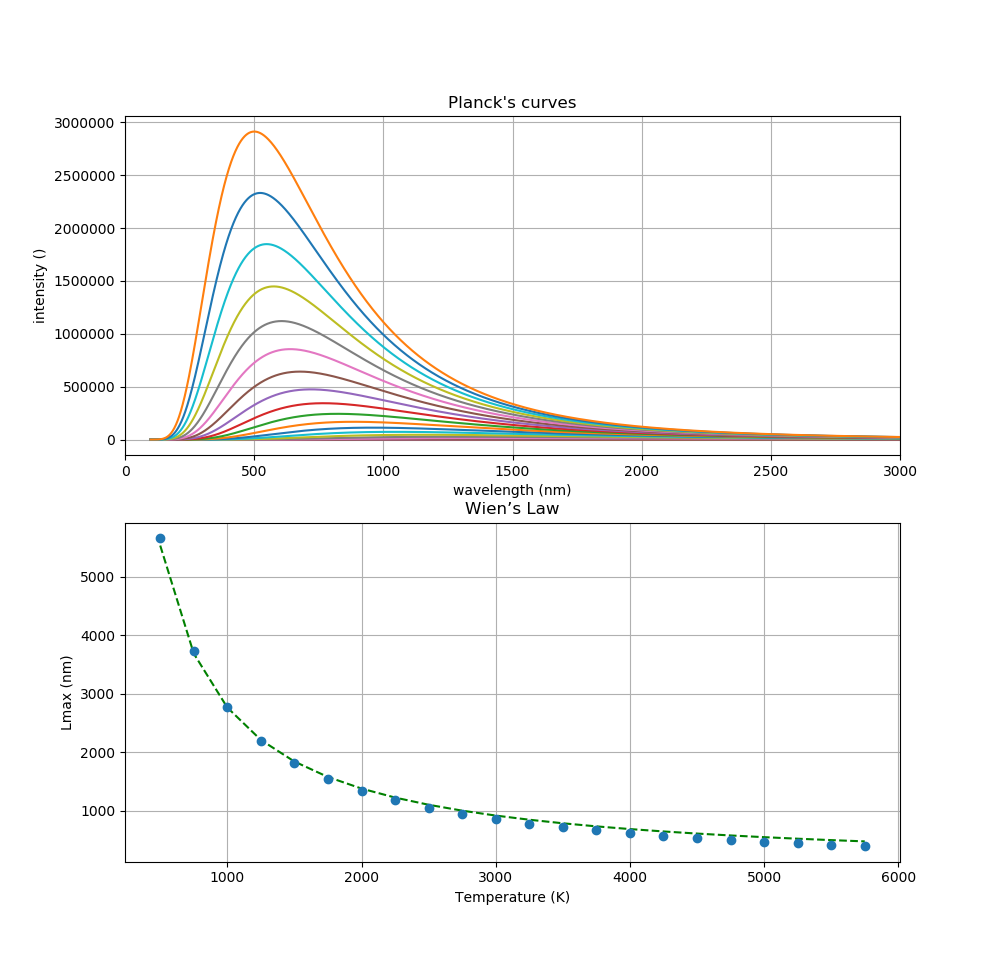
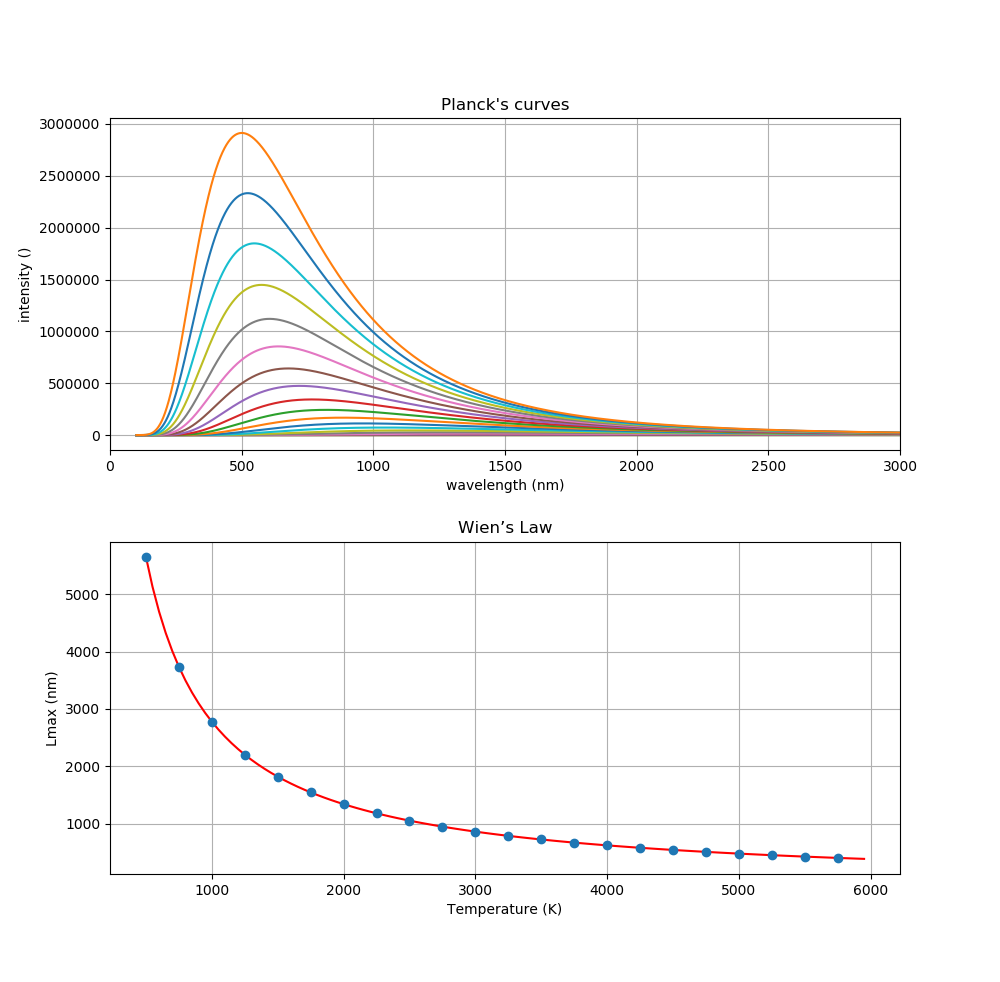
better curve for the Wien fit + print fit results

diff --git a/planck.py b/planck.py
@@ -27,9 +27,9 @@ def planck(T, lam):
     return (8*np.pi*h*c/l**5)/(np.exp(h*c/(l*k*T)-1))
  
 # define a function
-def wien(x, a):
+def wien(x, a0, a1, a2):
     # a polynumial function
-    return a/x
+    return a0 + a1/x + a2/(x**2)
 
     
 # create curves for different temperatures
@@ -50,7 +50,12 @@ for t in T:
 # fit data with function
 popt, pcov = curve_fit(wien, T, Lmax)
 popt
-axs[1].plot(T, wien(T, *popt), 'g--')
+T2 = np.arange(500, 6000, 50)
+axs[1].plot(T2, wien(T2, *popt), 'r-')
+
+print ('a0 = ' + str(popt[0])) 
+print ('a1 = ' + str(popt[1])) 
+print ('a2 = ' + str(popt[2]))
 
 # arange figure
  
